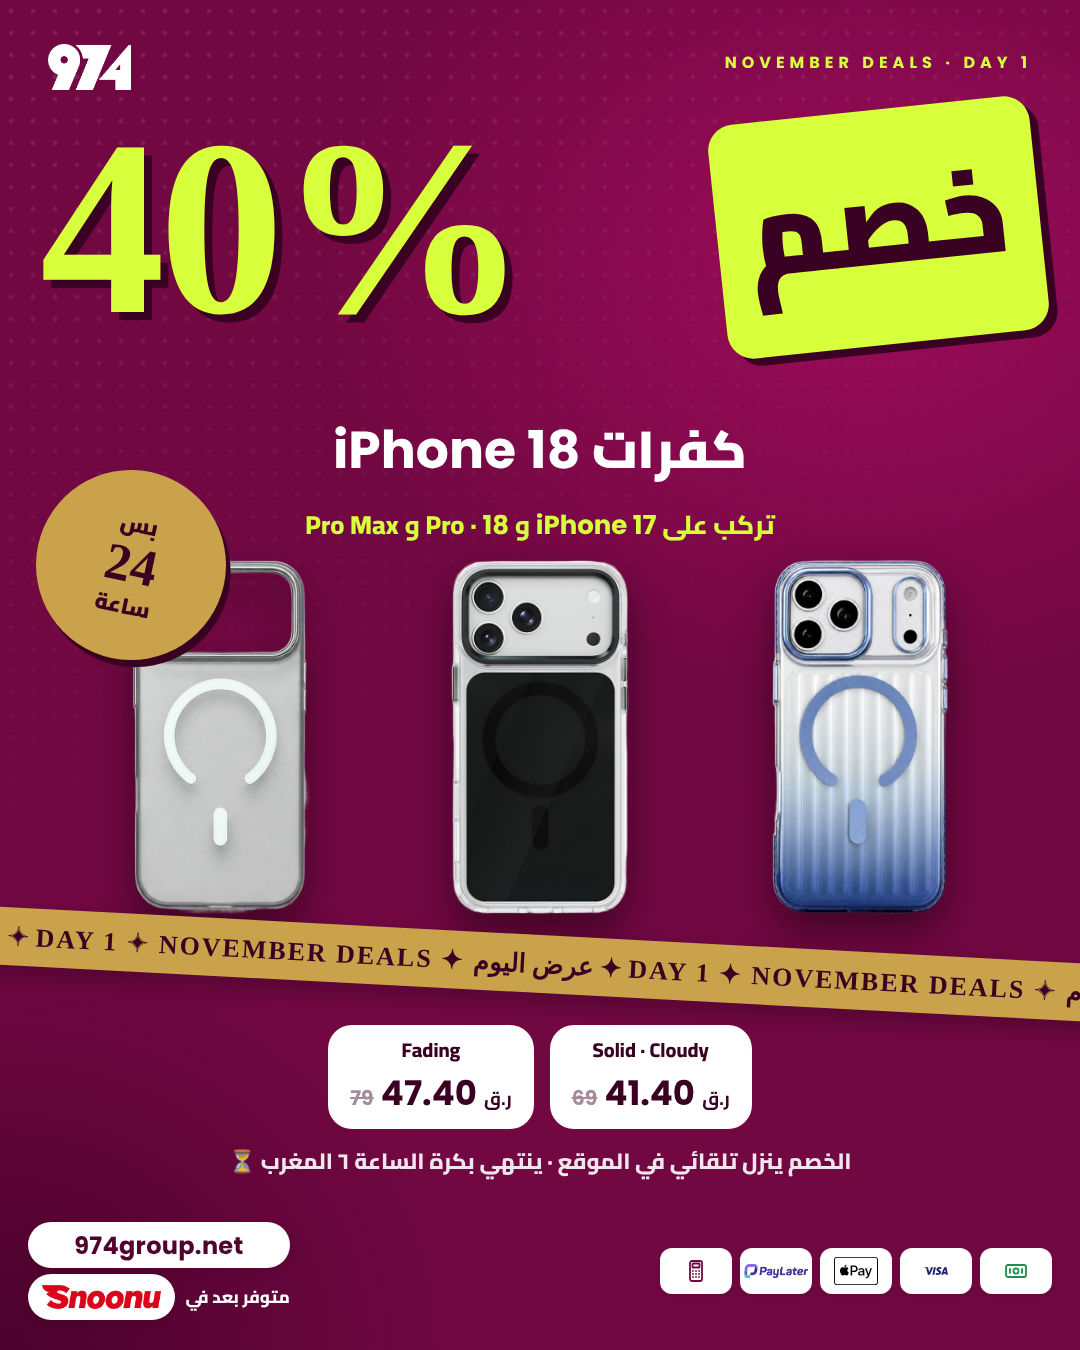
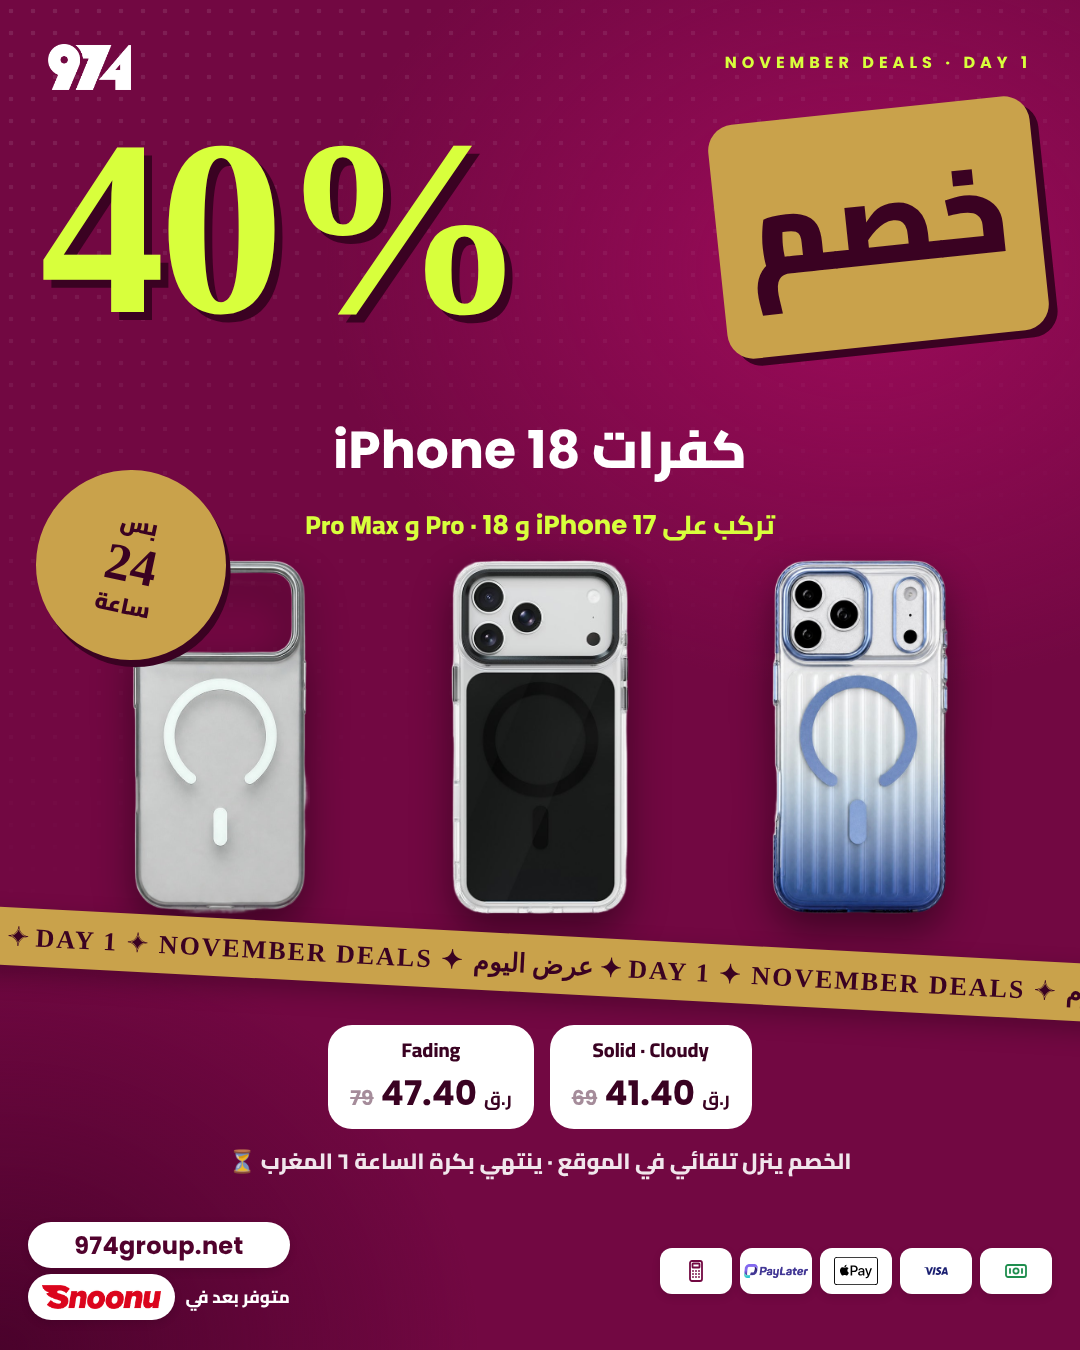
Nov deals day 1: gold khasm, story text spacing

Changed region(s): [[0.6417, 0.0622, 0.9778, 0.28]]

diff --git a/posts/2026-11/nov-deals/out/974-nov-deals-day1-cases-story.html b/posts/2026-11/nov-deals/out/974-nov-deals-day1-cases-story.html
@@ -36,21 +36,21 @@ background:radial-gradient(900px 700px at 80% 20%,#9C0B5A 0%,transparent 60%),ra
 <img class="logo" src="file:///home/claude/974-social/posts/2026-11/pilates-socks/src/logo-white.png" style="left:48px;top:270px">
 <div style="position:absolute;right:48px;top:274px;font-family:Poppins;font-weight:700;font-size:16px;letter-spacing:5px;color:#D8FF3C">NOVEMBER DEALS · DAY 1</div>
 <div style="position:absolute;left:40px;right:40px;top:370px;display:flex;align-items:center;justify-content:space-between;direction:rtl">
-  <span class="khasm" style="font-size:132px;padding:0 30px 14px">خصم</span>
+  <span class="khasm" style="font-size:132px;padding:0 30px 14px;background:#C9A24B">خصم</span>
   <span class="big" style="font-size:280px;color:#D8FF3C;text-shadow:8px 8px 0 #3A0222">40%</span>
 </div>
 <div style="position:absolute;left:0;right:0;top:700px;text-align:center;direction:rtl">
   <div style="font-weight:900;font-size:58px">كفرات <span style="font-family:Poppins">iPhone 18</span></div>
   <div style="font-weight:800;font-size:29px;color:#D8FF3C;margin-top:2px">تركب على <span style="font-family:Poppins">iPhone 17</span> و <span style="font-family:Poppins">18</span> · Pro و Pro Max</div>
 </div>
-<img src="file:///home/claude/974-social/posts/2026-11/nov-deals/src/cloudy-gray-c.png" style="position:absolute;left:16px;top:845px;width:336px;height:396px;object-fit:contain;filter:drop-shadow(0 18px 20px rgba(0,0,0,.45))"><img src="file:///home/claude/974-social/posts/2026-11/nov-deals/src/solid-black-c.png" style="position:absolute;left:372px;top:845px;width:336px;height:396px;object-fit:contain;filter:drop-shadow(0 18px 20px rgba(0,0,0,.45))"><img src="file:///home/claude/974-social/posts/2026-11/nov-deals/src/fading-blue-c.png" style="position:absolute;left:728px;top:845px;width:336px;height:396px;object-fit:contain;filter:drop-shadow(0 18px 20px rgba(0,0,0,.45))">
-<div class="sticker" style="left:30px;top:790px"><span style="font-size:22px">بس</span><span style="font-family:PoppinsB;font-size:52px">24</span><span style="font-size:22px">ساعة</span></div>
-<div class="tape" style="top:1242px;transform:rotate(3deg);background:#C9A24B;color:#3A0222"><span>عرض اليوم  ✦  DAY 1  ✦  NOVEMBER DEALS  ✦  عرض اليوم  ✦  DAY 1  ✦  NOVEMBER DEALS  ✦  عرض اليوم  ✦  DAY 1  ✦  NOVEMBER DEALS  ✦  عرض اليوم  ✦  DAY 1  ✦  NOVEMBER DEALS  ✦  عرض اليوم  ✦  DAY 1  ✦  NOVEMBER DEALS  ✦  عرض اليوم  ✦  DAY 1  ✦  NOVEMBER DEALS  ✦  عرض اليوم  ✦  DAY 1  ✦  NOVEMBER DEALS  ✦  عرض اليوم  ✦  DAY 1  ✦  NOVEMBER DEALS  ✦  عرض اليوم  ✦  DAY 1  ✦  NOVEMBER DEALS  ✦  عرض اليوم  ✦  DAY 1  ✦  NOVEMBER DEALS  ✦  عرض اليوم  ✦  DAY 1  ✦  NOVEMBER DEALS  ✦  عرض اليوم  ✦  DAY 1  ✦  NOVEMBER DEALS  ✦  </span></div>
-<div style="position:absolute;left:48px;right:48px;top:1325px;display:flex;justify-content:center;gap:16px;direction:rtl">
+<img src="file:///home/claude/974-social/posts/2026-11/nov-deals/src/cloudy-gray-c.png" style="position:absolute;left:16px;top:895px;width:336px;height:396px;object-fit:contain;filter:drop-shadow(0 18px 20px rgba(0,0,0,.45))"><img src="file:///home/claude/974-social/posts/2026-11/nov-deals/src/solid-black-c.png" style="position:absolute;left:372px;top:895px;width:336px;height:396px;object-fit:contain;filter:drop-shadow(0 18px 20px rgba(0,0,0,.45))"><img src="file:///home/claude/974-social/posts/2026-11/nov-deals/src/fading-blue-c.png" style="position:absolute;left:728px;top:895px;width:336px;height:396px;object-fit:contain;filter:drop-shadow(0 18px 20px rgba(0,0,0,.45))">
+<div class="sticker" style="left:30px;top:850px"><span style="font-size:22px">بس</span><span style="font-family:PoppinsB;font-size:52px">24</span><span style="font-size:22px">ساعة</span></div>
+<div class="tape" style="top:1290px;transform:rotate(3deg);background:#C9A24B;color:#3A0222"><span>عرض اليوم  ✦  DAY 1  ✦  NOVEMBER DEALS  ✦  عرض اليوم  ✦  DAY 1  ✦  NOVEMBER DEALS  ✦  عرض اليوم  ✦  DAY 1  ✦  NOVEMBER DEALS  ✦  عرض اليوم  ✦  DAY 1  ✦  NOVEMBER DEALS  ✦  عرض اليوم  ✦  DAY 1  ✦  NOVEMBER DEALS  ✦  عرض اليوم  ✦  DAY 1  ✦  NOVEMBER DEALS  ✦  عرض اليوم  ✦  DAY 1  ✦  NOVEMBER DEALS  ✦  عرض اليوم  ✦  DAY 1  ✦  NOVEMBER DEALS  ✦  عرض اليوم  ✦  DAY 1  ✦  NOVEMBER DEALS  ✦  عرض اليوم  ✦  DAY 1  ✦  NOVEMBER DEALS  ✦  عرض اليوم  ✦  DAY 1  ✦  NOVEMBER DEALS  ✦  عرض اليوم  ✦  DAY 1  ✦  NOVEMBER DEALS  ✦  </span></div>
+<div style="position:absolute;left:48px;right:48px;top:1370px;display:flex;justify-content:center;gap:16px;direction:rtl">
   <div style="background:#fff;color:#3A0222;border-radius:24px;padding:6px 22px 10px;text-align:center"><div style="font-weight:800;font-size:22px">Solid · Cloudy</div><div style="font-family:Poppins;font-weight:700;font-size:38px;direction:ltr"><s style="opacity:.45;font-size:.6em">69</s> 41.40 <small style="font-family:Cairo;font-size:.55em">ر.ق</small></div></div>
   <div style="background:#fff;color:#3A0222;border-radius:24px;padding:6px 22px 10px;text-align:center"><div style="font-weight:800;font-size:22px">Fading</div><div style="font-family:Poppins;font-weight:700;font-size:38px;direction:ltr"><s style="opacity:.45;font-size:.6em">79</s> 47.40 <small style="font-family:Cairo;font-size:.55em">ر.ق</small></div></div>
 </div>
-<div style="position:absolute;left:0;right:0;top:1448px;text-align:center;direction:rtl;font-weight:800;font-size:24px;opacity:.9">الخصم ينزل تلقائي في الموقع · ينتهي بكرة الساعة ٦ المغرب ⏳</div><div class="pf"><div class="payfoot"><div class="pills">
+<div style="position:absolute;left:0;right:0;top:1492px;text-align:center;direction:rtl;font-weight:800;font-size:24px;opacity:.9">الخصم ينزل تلقائي في الموقع · ينتهي بكرة الساعة ٦ المغرب ⏳</div><div class="pf"><div class="payfoot"><div class="pills">
 <div class="ch"><div class="lg"><svg viewBox="0 0 24 24" style="height:54px" fill="none" stroke="#1E8E4E" stroke-width="1.8" stroke-linecap="round" stroke-linejoin="round"><rect x="2" y="6" width="20" height="12" rx="2"/><circle cx="12" cy="12" r="2.6"/><path d="M6 10v4M18 10v4"/></svg></div><i>كاش</i></div>
 <div class="ch"><div class="lg"><svg fill="#1A1F71" style="height:120px;width:150px" xmlns="http://www.w3.org/2000/svg" viewBox="0 0 24 24"><path d="M9.112 8.262 5.97 15.758H3.92L2.374 9.775c-.094-.368-.175-.503-.461-.658C1.447 8.864.677 8.627 0 8.479l.046-.217h3.3a.904.904 0 0 1 .894.764l.817 4.338 2.018-5.102zm8.033 5.049c.008-1.979-2.736-2.088-2.717-2.972.006-.269.262-.555.822-.628a3.66 3.66 0 0 1 1.913.336l.34-1.59a5.2 5.2 0 0 0-1.814-.333c-1.917 0-3.266 1.02-3.278 2.479-.012 1.079.963 1.68 1.698 2.04.756.367 1.01.603 1.006.931-.005.504-.602.725-1.16.734-.975.015-1.54-.263-1.992-.473l-.351 1.642c.453.208 1.289.39 2.156.398 2.037 0 3.37-1.006 3.377-2.564m5.061 2.447H24l-1.565-7.496h-1.656a.88.88 0 0 0-.826.55l-2.909 6.946h2.036l.405-1.12h2.488zm-2.163-2.656 1.02-2.815.588 2.815zm-8.16-4.84-1.603 7.496H8.34l1.605-7.496z"/></svg></div><i>Visa</i></div>
 <div class="ch applepay"><div class="lg"><svg viewBox="0 0 24 24" fill="#000" style="height:120px;width:150px"><path d="m2.15 4.318-.454.003c-.15.005-.303.013-.452.04a1.44 1.44 0 0 0-1.06.772c-.07.138-.114.278-.14.43-.028.148-.037.3-.04.45L0 6.222v11.557q0 .104.003.207c.004.15.013.303.04.452q.039.224.142.429a1.44 1.44 0 0 0 .63.63c.138.07.278.115.43.142.148.027.3.036.45.04l.208.003h20.194l.207-.003c.15-.004.303-.013.452-.04s.291-.071.428-.141a1.43 1.43 0 0 0 .631-.631c.07-.138.115-.278.141-.43.027-.148.036-.3.04-.45q.003-.104.003-.208l.001-.246V6.221q0-.104-.004-.207a3 3 0 0 0-.04-.452 1.45 1.45 0 0 0-1.2-1.201 3 3 0 0 0-.452-.04 11 11 0 0 0-.453-.003zm0 .512h19.942q.098 0 .197.003c.115.004.25.01.375.032.109.02.2.05.287.094a.93.93 0 0 1 .407.407 1 1 0 0 1 .094.288c.022.123.028.258.031.374q.003.097.003.197v11.552q0 .097-.003.196c-.003.115-.009.25-.032.375a.93.93 0 0 1-.5.693 1 1 0 0 1-.286.094 3 3 0 0 1-.373.032l-.2.003H1.906q-.1 0-.196-.003a3 3 0 0 1-.375-.032c-.109-.02-.2-.05-.288-.094a.9.9 0 0 1-.406-.407 1 1 0 0 1-.094-.288 2.5 2.5 0 0 1-.032-.373l-.002-.197V6.224q0-.098.002-.197c.004-.114.01-.248.032-.375.02-.108.05-.199.094-.287a.93.93 0 0 1 .407-.406 1 1 0 0 1 .287-.094c.125-.022.26-.029.375-.032q.098-.002.196-.003zm4.71 3.7c-.3.016-.668.199-.88.456-.191.22-.36.58-.316.918.338.03.675-.169.888-.418.205-.258.345-.603.308-.955zm2.207.42v5.493h.852v-1.877h1.18c1.078 0 1.835-.739 1.835-1.812 0-1.07-.742-1.805-1.808-1.805zm.852.719h.982c.739 0 1.161.396 1.161 1.089 0 .692-.422 1.092-1.164 1.092h-.979zm-3.154.3c-.45.01-.83.28-1.05.28-.235 0-.593-.264-.981-.257a1.45 1.45 0 0 0-1.23.747c-.527.908-.139 2.255.374 2.995.249.366.549.769.944.754.373-.014.52-.242.973-.242.454 0 .586.242.98.235.41-.007.667-.366.915-.733.286-.417.403-.82.41-.841-.007-.008-.79-.308-.797-1.209-.008-.754.615-1.113.644-1.135-.352-.52-.9-.578-1.09-.593zm8.204.397c-.99 0-1.606.533-1.652 1.256h.777c.072-.358.369-.586.845-.586.502 0 .803.266.803.711v.309l-1.097.064c-.951.054-1.488.484-1.488 1.184 0 .72.548 1.207 1.332 1.207.526 0 1.032-.281 1.264-.727h.019v.659h.788v-2.76c0-.803-.62-1.317-1.591-1.317m1.94.072 1.446 4.009c0 .003-.073.24-.073.247-.125.41-.33.571-.711.571-.069 0-.206 0-.267-.015v.666c.06.011.267.019.335.019.83 0 1.226-.312 1.568-1.283l1.5-4.214h-.868l-1.012 3.259h-.015l-1.013-3.26zm-1.167 2.189v.316c0 .521-.45.917-1.024.917-.442 0-.731-.228-.731-.579 0-.342.278-.56.769-.593z"/></svg></div><i>Apple Pay</i></div>

diff --git a/posts/2026-11/nov-deals/out/974-nov-deals-day1-cases-post.html b/posts/2026-11/nov-deals/out/974-nov-deals-day1-cases-post.html
@@ -36,7 +36,7 @@ background:radial-gradient(900px 700px at 80% 20%,#9C0B5A 0%,transparent 60%),ra
 <img class="logo" src="file:///home/claude/974-social/posts/2026-11/pilates-socks/src/logo-white.png" style="left:48px;top:44px">
 <div style="position:absolute;right:48px;top:50px;font-family:Poppins;font-weight:700;font-size:16px;letter-spacing:5px;color:#D8FF3C">NOVEMBER DEALS · DAY 1</div>
 <div style="position:absolute;left:40px;right:40px;top:110px;display:flex;align-items:center;justify-content:space-between;direction:rtl">
-  <span class="khasm" style="font-size:118px;padding:0 30px 14px">خصم</span>
+  <span class="khasm" style="font-size:118px;padding:0 30px 14px;background:#C9A24B">خصم</span>
   <span class="big" style="font-size:250px;color:#D8FF3C;text-shadow:8px 8px 0 #3A0222">40%</span>
 </div>
 <div style="position:absolute;left:0;right:0;top:400px;text-align:center;direction:rtl">

diff --git a/posts/2026-11/nov-deals/gen.py b/posts/2026-11/nov-deals/gen.py
@@ -65,12 +65,12 @@ def day1(story):
     cw = int(300 * k); gap = 20
     x0 = (1080 - (3 * cw + 2 * gap)) // 2
     for i, (f, nm) in enumerate(cases):
-        imgs += f'<img src="file://{S}{f}-c.png" style="position:absolute;left:{x0+i*(cw+gap)}px;top:{o+(560 if not story else 615)}px;width:{cw}px;height:{int(cw*1.18)}px;object-fit:contain;filter:drop-shadow(0 18px 20px rgba(0,0,0,.45))">'
+        imgs += f'<img src="file://{S}{f}-c.png" style="position:absolute;left:{x0+i*(cw+gap)}px;top:{o+(560 if not story else 665)}px;width:{cw}px;height:{int(cw*1.18)}px;object-fit:contain;filter:drop-shadow(0 18px 20px rgba(0,0,0,.45))">'
     body = f'''
 <img class="logo" src="file://{LOGOW}" style="left:48px;top:{o+40 if story else 44}px">
 <div style="position:absolute;right:48px;top:{(o+44) if story else 50}px;font-family:Poppins;font-weight:700;font-size:16px;letter-spacing:5px;color:{LIME}">NOVEMBER DEALS · DAY 1</div>
 <div style="position:absolute;left:40px;right:40px;top:{o+(110 if not story else 140)}px;display:flex;align-items:center;justify-content:space-between;direction:rtl">
-  <span class="khasm" style="font-size:{int(118*k)}px;padding:0 30px 14px">خصم</span>
+  <span class="khasm" style="font-size:{int(118*k)}px;padding:0 30px 14px;background:{GOLD}">خصم</span>
   <span class="big" style="font-size:{int(250*k)}px;color:{LIME};text-shadow:8px 8px 0 {DK}">40%</span>
 </div>
 <div style="position:absolute;left:0;right:0;top:{o+(400 if not story else 470)}px;text-align:center;direction:rtl">
@@ -78,13 +78,13 @@ def day1(story):
   <div style="font-weight:800;font-size:{int(26*k)}px;color:{LIME};margin-top:2px">تركب على <span style="font-family:Poppins">iPhone 17</span> و <span style="font-family:Poppins">18</span> · Pro و Pro Max</div>
 </div>
 {imgs}
-<div class="sticker" style="left:{36 if not story else 30}px;top:{o+(470 if not story else 560)}px"><span style="font-size:22px">بس</span><span style="font-family:PoppinsB;font-size:52px">24</span><span style="font-size:22px">ساعة</span></div>
-{tape(o+(935 if not story else 1012), 3, 'عرض اليوم  ✦  DAY 1  ✦  NOVEMBER DEALS', bg=GOLD)}
-<div style="position:absolute;left:48px;right:48px;top:{o+(1025 if not story else 1095)}px;display:flex;justify-content:center;gap:16px;direction:rtl">
+<div class="sticker" style="left:{36 if not story else 30}px;top:{o+(470 if not story else 620)}px"><span style="font-size:22px">بس</span><span style="font-family:PoppinsB;font-size:52px">24</span><span style="font-size:22px">ساعة</span></div>
+{tape(o+(935 if not story else 1060), 3, 'عرض اليوم  ✦  DAY 1  ✦  NOVEMBER DEALS', bg=GOLD)}
+<div style="position:absolute;left:48px;right:48px;top:{o+(1025 if not story else 1140)}px;display:flex;justify-content:center;gap:16px;direction:rtl">
   <div style="background:#fff;color:{DK};border-radius:24px;padding:6px 22px 10px;text-align:center"><div style="font-weight:800;font-size:{int(20*k)}px">Solid · Cloudy</div><div style="font-family:Poppins;font-weight:700;font-size:{int(34*k)}px;direction:ltr"><s style="opacity:.45;font-size:.6em">69</s> 41.40 <small style="font-family:Cairo;font-size:.55em">ر.ق</small></div></div>
   <div style="background:#fff;color:{DK};border-radius:24px;padding:6px 22px 10px;text-align:center"><div style="font-weight:800;font-size:{int(20*k)}px">Fading</div><div style="font-family:Poppins;font-weight:700;font-size:{int(34*k)}px;direction:ltr"><s style="opacity:.45;font-size:.6em">79</s> 47.40 <small style="font-family:Cairo;font-size:.55em">ر.ق</small></div></div>
 </div>
-<div style="position:absolute;left:0;right:0;top:{o+(1140 if not story else 1218)}px;text-align:center;direction:rtl;font-weight:800;font-size:{int(22*k)}px;opacity:.9">الخصم ينزل تلقائي في الموقع · ينتهي بكرة الساعة ٦ المغرب ⏳</div>'''
+<div style="position:absolute;left:0;right:0;top:{o+(1140 if not story else 1262)}px;text-align:center;direction:rtl;font-weight:800;font-size:{int(22*k)}px;opacity:.9">الخصم ينزل تلقائي في الموقع · ينتهي بكرة الساعة ٦ المغرب ⏳</div>'''
     return base(story, body)
 
 
